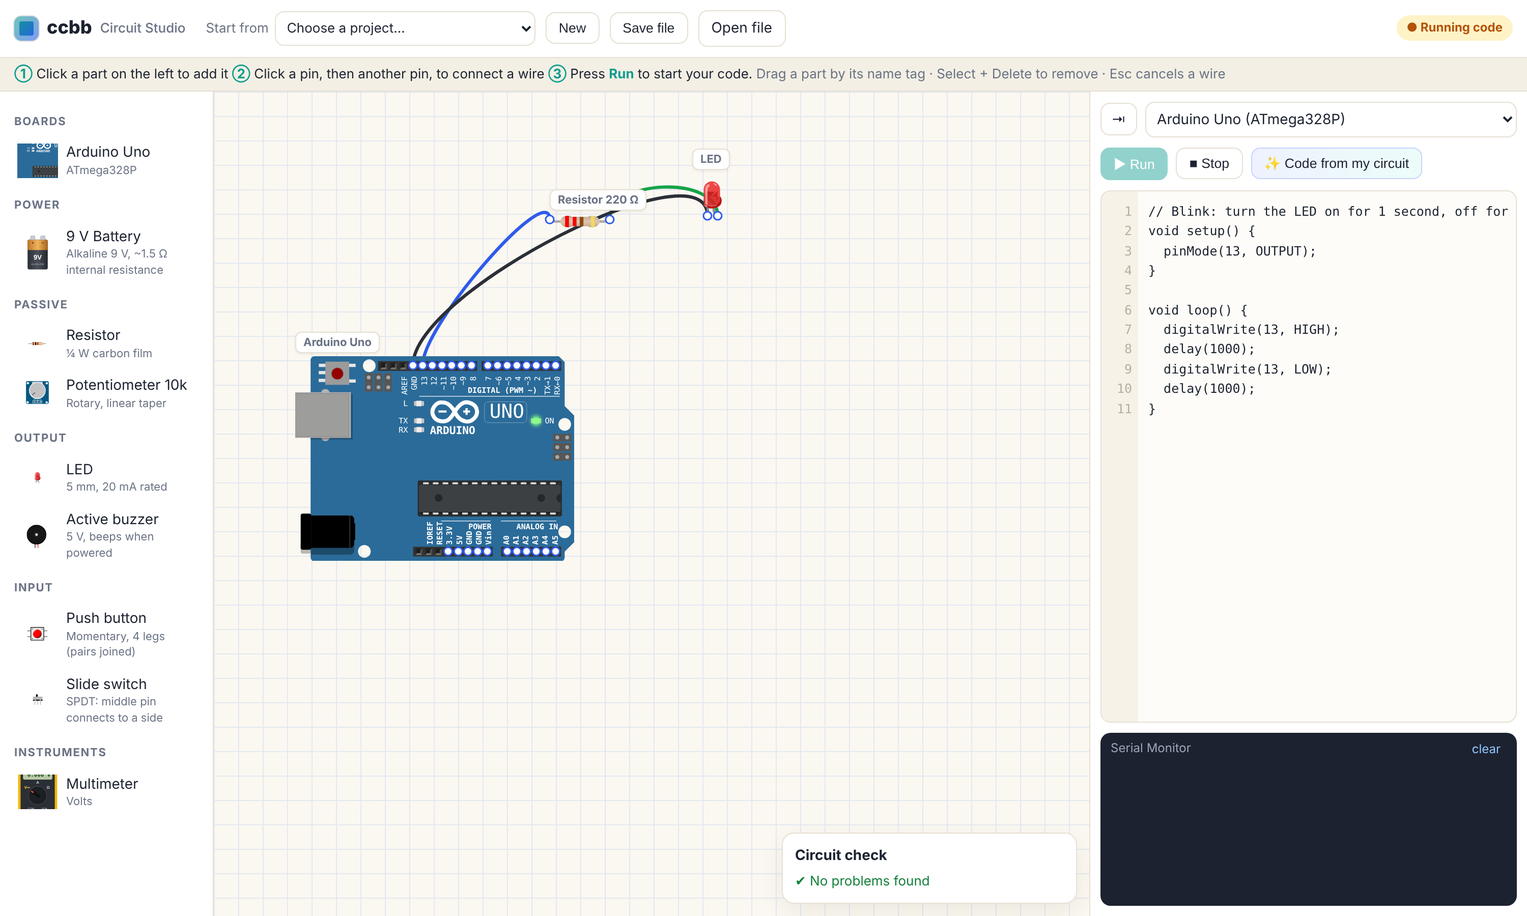
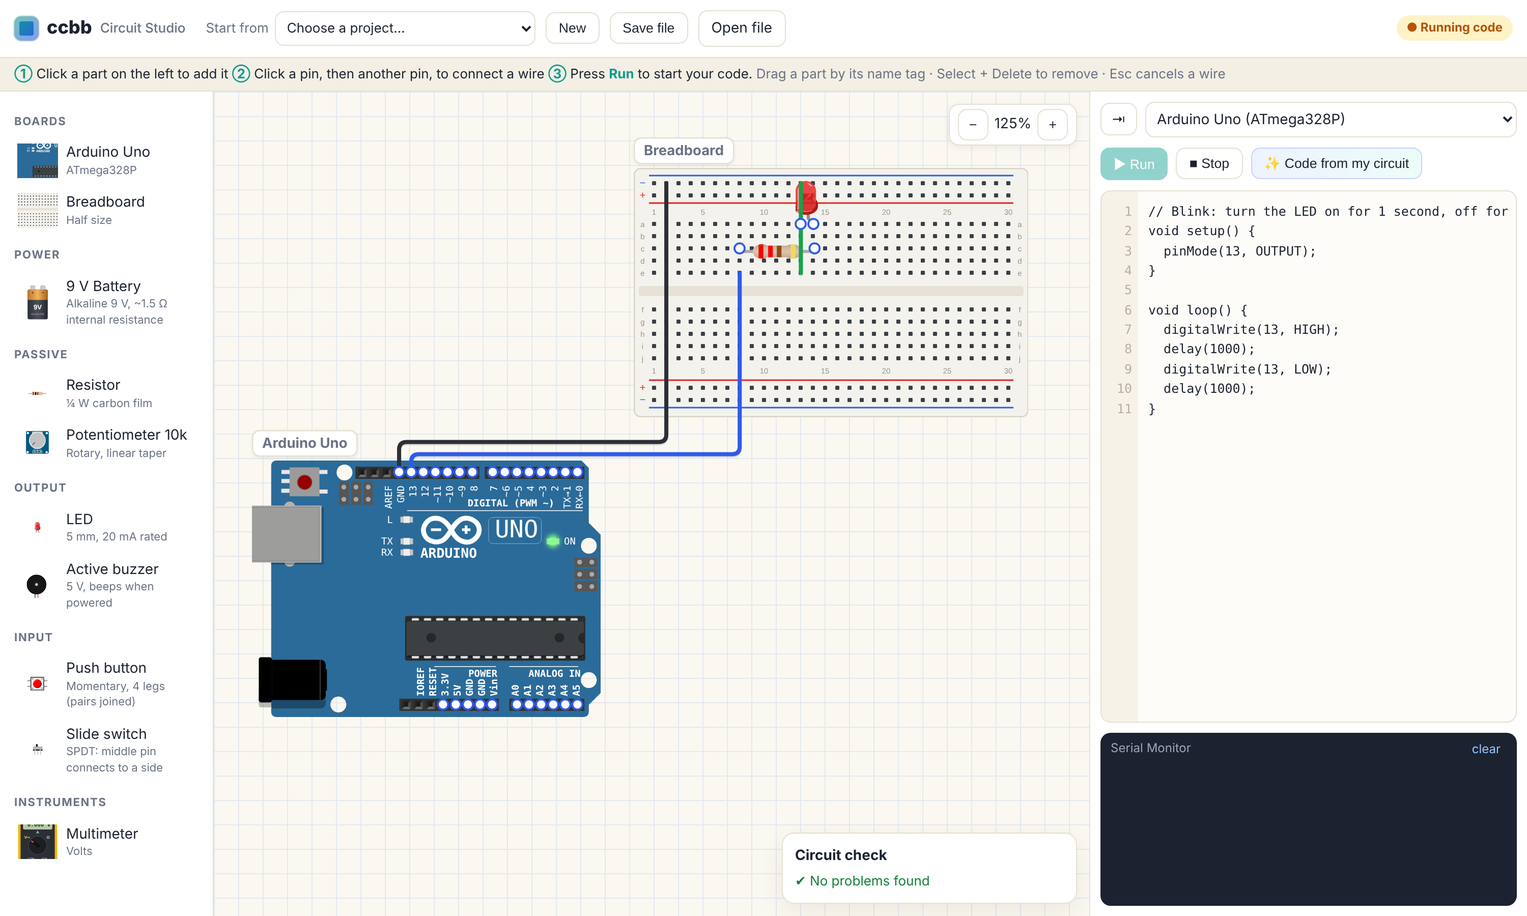
Add breadboard, snap-in parts, neat right-angle wiring, zoom
- Half-size breadboard with real row/column/rail connections
- Parts snap into holes; moving the board carries seated parts
- Wires leave pins straight then bend at right angles, drawn above parts
- Starter projects rebuilt on the breadboard
- Zoom control; tidier panels and name tags
- Tests: 27 unit + 15 end-to-end

Claude-Session: https://claude.ai/code/session_01GCfRSDwTK6ahEZgw49N2wn

diff --git a/app/ui/main.js b/app/ui/main.js
@@ -3,6 +3,7 @@ import { createRunner } from '../engine/arduino.js';
 import { CATALOG, BY_TYPE, PROJECTS } from './catalog.js';
 
 const $ = id => document.getElementById(id);
+let Z = 1.25;
 const S = { parts: [], wires: [], selected: null, pending: null, io: { pins: {} }, sim: null, runner: null, nextId: 1 };
 const els = new Map(); // part id -> {host, el}
 
@@ -56,11 +57,40 @@ function applyProps(p) {
   if (p.type === 'uno') el.ledPower = true;
   host.classList.toggle('burnt', !!p.props.burnt);
 }
+const INSERTABLE = ['resistor', 'led', 'pushbutton', 'pot', 'buzzer', 'switch'];
+function placeHost(p) { const h = els.get(p.id).host; h.style.left = p.x + 'px'; h.style.top = p.y + 'px'; }
+const kids = bbId => S.parts.filter(q => S.wires.some(w => w.hidden && w.from.startsWith(q.id + ':') && w.to.startsWith(bbId + ':')));
+function tryInsert(p) {
+  S.wires = S.wires.filter(w => !(w.hidden && w.from.startsWith(p.id + ':')));
+  if (!INSERTABLE.includes(p.type)) return false;
+  const pins = (PIN_LIST[p.type] || []).map(n => [n, pinPos(p.id + ':' + n)]).filter(x => x[1]);
+  let best = null;
+  for (const bb of S.parts.filter(q => q.type === 'breadboard')) {
+    const holes = els.get(bb.id).el.pinInfo, o = pinPos(bb.id + ':' + holes[0].name); if (!o) continue;
+    const ox = o[0] - holes[0].x, oy = o[1] - holes[0].y;
+    for (const [, [x, y]] of pins) for (const h of holes) { const dx = ox + h.x - x, dy = oy + h.y - y, d = Math.hypot(dx, dy);
+      if (d < 6.5 && (!best || d < best.d)) best = { d, dx, dy, bb, ox, oy, holes }; }
+  }
+  if (!best) return false;
+  p.x += best.dx; p.y += best.dy; placeHost(p);
+  for (const n of PIN_LIST[p.type]) { const xy = pinPos(p.id + ':' + n); if (!xy) continue;
+    const h = best.holes.find(h => Math.hypot(best.ox + h.x - xy[0], best.oy + h.y - xy[1]) < 4.5);
+    if (h) S.wires.push({ from: p.id + ':' + n, to: best.bb.id + ':' + h.name, hidden: true }); }
+  return true;
+}
 function startDrag(e, p) {
   const sx = e.clientX, sy = e.clientY, ox = p.x, oy = p.y; let moved = false;
-  const mv = ev => { const dx = ev.clientX - sx, dy = ev.clientY - sy; if (!moved && Math.hypot(dx, dy) < 3) return; moved = true;
-    p.x = Math.max(0, ox + dx); p.y = Math.max(30, oy + dy); const h = els.get(p.id).host; h.style.left = p.x + 'px'; h.style.top = p.y + 'px'; drawWires(); drawPins(); };
-  const up = () => { removeEventListener('pointermove', mv); removeEventListener('pointerup', up); if (moved) save(); };
+  const riders = p.type === 'breadboard' ? kids(p.id).map(q => [q, q.x, q.y]) : [];
+  const mv = ev => { const dx = (ev.clientX - sx) / Z, dy = (ev.clientY - sy) / Z; if (!moved && Math.hypot(dx, dy) < 3) return; moved = true;
+    p.x = Math.max(0, ox + dx); p.y = Math.max(30, oy + dy); placeHost(p);
+    for (const [q, qx, qy] of riders) { q.x = qx + (p.x - ox); q.y = qy + (p.y - oy); placeHost(q); }
+    drawWires(); drawPins(); };
+  const up = () => { removeEventListener('pointermove', mv); removeEventListener('pointerup', up);
+    if (!moved) return;
+    if (!tryInsert(p)) { const g = 4.8, nx = Math.round(p.x / g) * g, ny = Math.round(p.y / g) * g;
+      for (const [q] of riders) { q.x += nx - p.x; q.y += ny - p.y; placeHost(q); }
+      p.x = nx; p.y = ny; placeHost(p); }
+    changed(); };
   addEventListener('pointermove', mv); addEventListener('pointerup', up);
 }
 function removePart(id) {
@@ -73,31 +103,62 @@ function pinPos(key) {
   const [id, pin] = key.split(/:(.+)/); const r = els.get(id); if (!r) return null;
   const info = (r.el.pinInfo || []).find(q => q.name === pin); if (!info) return null;
   const w = $('world').getBoundingClientRect(), b = r.el.getBoundingClientRect();
-  const sc = r.el.offsetWidth ? b.width / r.el.offsetWidth : 1;
-  return [b.left - w.left + info.x * sc, b.top - w.top + info.y * sc];
+  const sc = r.el.offsetWidth ? b.width / Z / r.el.offsetWidth : 1;
+  return [(b.left - w.left) / Z + info.x * sc, (b.top - w.top) / Z + info.y * sc];
 }
 const isGnd = k => /:(GND[.\d]*|-|COM)$/.test(k), isPwr = k => /:(5V|3\.3V|\+|VCC|VIN)$/.test(k);
 const PALETTE = ['#2f5bea', '#16a34a', '#f59e0b', '#9333ea', '#0891b2', '#db2777'];
 const wireColor = (w, i) => isGnd(w.from) || isGnd(w.to) ? '#2b2f36' : isPwr(w.from) || isPwr(w.to) ? '#dc2626' : PALETTE[i % PALETTE.length];
-function wirePath(a, b) { const dy = Math.max(40, Math.abs(b[0] - a[0]) * .25);
-  const up = (a[1] + b[1]) / 2 > Math.min(a[1], b[1]) ? -1 : 1;
-  return `M${a[0]},${a[1]} C${a[0]},${a[1] + up * dy} ${b[0]},${b[1] + up * dy} ${b[0]},${b[1]}`; }
-
+// Neat routing: leave each pin straight out of its part's edge, then use right-angle turns.
+function exitDir(key, xy) {
+  const [id] = key.split(':'); const p = S.parts.find(q => q.id === id); if (!p || p.type === 'breadboard') return null;
+  const r = els.get(id).el.getBoundingClientRect(), w = $('world').getBoundingClientRect();
+  const top = (r.top - w.top) / Z, h = r.height / Z, left = (r.left - w.left) / Z, wd = r.width / Z;
+  const fy = (xy[1] - top) / h, fx = (xy[0] - left) / wd;
+  if (fy > 0.75) return [0, 1]; if (fy < 0.25) return [0, -1]; return fx < 0.5 ? [-1, 0] : [1, 0];
+}
+function rounded(pts) {
+  pts = pts.filter((q, i) => i === 0 || Math.hypot(q[0] - pts[i - 1][0], q[1] - pts[i - 1][1]) > 0.5);
+  let d = `M${pts[0][0]},${pts[0][1]}`;
+  for (let i = 1; i < pts.length - 1; i++) {
+    const [px, py] = pts[i - 1], [x, y] = pts[i], [nx, ny] = pts[i + 1];
+    const r = Math.min(6, Math.hypot(x - px, y - py) / 2, Math.hypot(nx - x, ny - y) / 2);
+    const ux = Math.sign(x - px), uy = Math.sign(y - py), vx = Math.sign(nx - x), vy = Math.sign(ny - y);
+    d += ` L${x - ux * r},${y - uy * r} Q${x},${y} ${x + vx * r},${y + vy * r}`;
+  }
+  const l = pts.at(-1); return d + ` L${l[0]},${l[1]}`;
+}
+function wirePath(a, b, lane = 0, ka = '', kb = '') {
+  let da = exitDir(ka, a), db = exitDir(kb, b);
+  if (!da && db) { [a, b, da, db] = [b, a, db, da]; }
+  const L = 14 + lane;
+  if (!da) { // hole to hole: one bend
+    if (Math.abs(a[0] - b[0]) < 1 || Math.abs(a[1] - b[1]) < 1) return `M${a[0]},${a[1]} L${b[0]},${b[1]}`;
+    return rounded([a, [a[0], b[1]], b]); }
+  const a1 = [a[0] + da[0] * L, a[1] + da[1] * L];
+  const b1 = db ? [b[0] + db[0] * L, b[1] + db[1] * L] : b;
+  const mid = da[1] !== 0 ? [[b1[0], a1[1]]] : [[a1[0], b1[1]]];
+  return rounded([a, a1, ...mid, b1, b]);
+}
 // ---------------- drawing ----------------
 let flowOffset = 0;
 function drawWires() {
   const svg = $('wires');
-  svg.innerHTML = S.wires.map((w, i) => { const a = pinPos(w.from), b = pinPos(w.to); if (!a || !b) return '';
-    const d = wirePath(a, b), sel = S.selected?.wire === i ? ' sel' : '';
+  let lane = 0;
+  svg.innerHTML = S.wires.map((w, i) => { if (w.hidden) return ''; const a = pinPos(w.from), b = pinPos(w.to); if (!a || !b) return '';
+    const d = wirePath(a, b, (lane++ % 5) * 4.8, w.from, w.to), sel = S.selected?.wire === i ? ' sel' : '';
     return `<path class="wire${sel}" data-i="${i}" d="${d}" stroke="${wireColor(w, i)}"/><path class="flow" data-f="${i}" d="${d}"/>`; }).join('')
     + (S.pending?.mouse ? (() => { const a = pinPos(S.pending.from); return a ? `<path class="ghost" d="M${a[0]},${a[1]} L${S.pending.mouse[0]},${S.pending.mouse[1]}"/>` : ''; })() : '');
 }
+let holesVisible = true;
 function drawPins() {
   let h = '';
   for (const p of S.parts) for (const pin of PIN_LIST[p.type] || []) {
     if (p.type === 'uno' && ['A5.2', 'A4.2', 'AREF', 'IOREF', 'RESET'].includes(pin)) continue;
     const k = p.id + ':' + pin, xy = pinPos(k); if (!xy) continue;
-    h += `<circle class="pin${S.pending?.from === k ? ' armed' : ''}" data-k="${k}" cx="${xy[0]}" cy="${xy[1]}" r="4"/>`;
+    const hole = p.type === 'breadboard';
+    if (hole && !S.pending && !holesVisible) continue;
+    h += `<circle class="pin${hole ? ' hole' : ''}${S.pending?.from === k ? ' armed' : ''}" data-k="${k}" cx="${xy[0]}" cy="${xy[1]}" r="${hole ? 3.6 : 4}"/>`;
   }
   $('pins').innerHTML = h;
 }
@@ -110,7 +171,7 @@ $('pins').addEventListener('click', e => {
 });
 $('wires').addEventListener('click', e => { const i = e.target.dataset?.i; if (i !== undefined) selectThing({ wire: +i }); });
 $('world').addEventListener('pointermove', e => {
-  const w = $('world').getBoundingClientRect(), x = e.clientX - w.left, y = e.clientY - w.top;
+  const w = $('world').getBoundingClientRect(), x = (e.clientX - w.left) / Z, y = (e.clientY - w.top) / Z;
   if (S.pending) { S.pending.mouse = [x, y]; drawWires(); }
   const k = e.target.dataset?.k, wi = e.target.dataset?.i, tip = $('tip');
   if (S.sim && (k || wi !== undefined)) {
@@ -169,7 +230,9 @@ function refreshProps() {
 // ---------------- simulation ----------------
 let queued = false;
 function changed() { save(); if (!queued) { queued = true; requestAnimationFrame(() => { queued = false; runSim(); drawWires(); drawPins(); }); } }
+function markSeated() { for (const p of S.parts) els.get(p.id)?.host.classList.toggle('seated', S.wires.some(w => w.hidden && w.from.startsWith(p.id + ':'))); }
 function runSim() {
+  markSeated();
   S.sim = simulate(S.parts, S.wires, S.io);
   let reburn = false;
   for (const p of S.parts) { const r = S.sim.parts[p.id] || {}, { el } = els.get(p.id);
@@ -264,11 +327,18 @@ $('btnMin').onclick = () => { $('code').classList.toggle('min'); setTimeout(() =
 
 // ---------------- projects, save, load ----------------
 function load(data) {
-  stopCode(); for (const r of els.values()) r.host.remove(); els.clear();
+  S.ready = false; stopCode(); for (const r of els.values()) r.host.remove(); els.clear();
   S.parts = structuredClone(data.parts || []); S.wires = structuredClone(data.wires || []);
   S.nextId = 1 + Math.max(0, ...S.parts.map(p => +(p.id.match(/\d+$/)?.[0] || 0)));
   S.parts.forEach(mountPart); $('src').value = data.code || ''; gutter(); selectThing(null);
-  customElements.whenDefined('wokwi-arduino-uno').then(() => { requestAnimationFrame(() => changed()); setTimeout(() => { drawWires(); drawPins(); }, 250); });
+  Promise.all(['wokwi-arduino-uno', 'wokwi-led', 'wokwi-resistor', 'cb-breadboard'].map(t => customElements.whenDefined(t))).then(() => setTimeout(() => {
+    for (const p of S.parts) if (p.at) {
+      const hole = pinPos(p.at.bb + ':' + p.at.hole), pin = pinPos(p.id + ':' + p.at.pin);
+      if (hole && pin) { p.x += hole[0] - pin[0]; p.y += hole[1] - pin[1]; placeHost(p); tryInsert(p); }
+      delete p.at;
+    }
+    changed(); setTimeout(() => { drawWires(); drawPins(); requestAnimationFrame(() => { S.ready = true; }); }, 200);
+  }, 60));
 }
 $('projects').onchange = e => { if (e.target.value) load(PROJECTS[e.target.value]); e.target.value = ''; };
 $('btnNew').onclick = () => { if (confirm('Start a new empty circuit?')) load({ parts: [], wires: [], code: 'void setup() {\n\n}\n\nvoid loop() {\n\n}\n' }); };
@@ -279,8 +349,10 @@ const snapshot = () => ({ version: 1, parts: S.parts, wires: S.wires, code: $('s
 function save() { try { localStorage.setItem('ccbb.circuit', JSON.stringify(snapshot())); } catch {} }
 addEventListener('resize', () => { drawWires(); drawPins(); });
 
+function setZoom(z) { Z = Math.max(0.6, Math.min(2.2, Math.round(z * 100) / 100)); $('world').style.transform = `scale(${Z})`; $('zoomLbl').textContent = Math.round(Z * 100) + '%'; drawWires(); drawPins(); }
+$('zIn').onclick = () => setZoom(Z + 0.15); $('zOut').onclick = () => setZoom(Z - 0.15); setZoom(Z);
 // expose for tests / power users
-window.ccbb = { S, load, addPart, connect: (from, to) => { S.wires.push({ from, to }); changed(); }, simNow: () => (runSim(), S.sim), pinPos, PROJECTS };
+window.ccbb = { get Z() { return Z; }, setZoom, S, load, addPart, connect: (from, to) => { S.wires.push({ from, to }); changed(); }, simNow: () => (runSim(), S.sim), pinPos, PROJECTS };
 
 let initial = null; try { initial = JSON.parse(localStorage.getItem('ccbb.circuit')); } catch {}
 const q = new URLSearchParams(location.search).get('project');

diff --git a/app/ui/catalog.js b/app/ui/catalog.js
@@ -1,6 +1,7 @@
 // Parts the student can place, and starter projects.
 export const CATALOG = [
   { type: 'uno', tag: 'wokwi-arduino-uno', name: 'Arduino Uno', group: 'Boards', props: {}, desc: 'ATmega328P · 5 V · 14 digital + 6 analog pins' },
+  { type: 'breadboard', tag: 'cb-breadboard', name: 'Breadboard', group: 'Boards', props: {}, desc: 'Half size · 30 columns · rows a–e and f–j joined, + and − rails' },
   { type: 'battery', tag: 'cb-battery', name: '9 V Battery', group: 'Power', props: { volts: 9, rint: 1.5 }, desc: 'Alkaline 9 V, ~1.5 Ω internal resistance' },
   { type: 'resistor', tag: 'wokwi-resistor', name: 'Resistor', group: 'Passive', props: { ohms: 220 }, desc: '¼ W carbon film' },
   { type: 'pot', tag: 'wokwi-potentiometer', name: 'Potentiometer 10k', group: 'Passive', props: { ohms: 10000, pos: 50 }, desc: 'Rotary, linear taper' },
@@ -15,10 +16,11 @@ export const BY_TYPE = Object.fromEntries(CATALOG.map(c => [c.type, c]));
 const W = (from, to) => ({ from, to });
 export const PROJECTS = {
   blink: { name: '1 · Blink an LED', parts: [
-      { id: 'uno1', type: 'uno', x: 80, y: 260, props: {} },
-      { id: 'r1', type: 'resistor', x: 330, y: 120, props: { ohms: 220 } },
-      { id: 'led1', type: 'led', x: 470, y: 80, props: { color: 'red' } }],
-    wires: [W('uno1:13', 'r1:1'), W('r1:2', 'led1:A'), W('led1:C', 'uno1:GND.1')],
+      { id: 'uno1', type: 'uno', x: 30, y: 290, props: {} },
+      { id: "bb1", type: "breadboard", x: 330, y: 60, props: {} },
+      { id: 'r1', type: 'resistor', x: 0, y: 0, props: { ohms: 220 }, at: { bb: 'bb1', pin: '1', hole: 'C8' } },
+      { id: 'led1', type: 'led', x: 0, y: 0, props: { color: 'red' }, at: { bb: 'bb1', pin: 'C', hole: 'A13' } }],
+    wires: [W('uno1:13', 'bb1:E8'), W('bb1:E13', 'bb1:TN13'), W('uno1:GND.1', 'bb1:TN2')],
     code: `// Blink: turn the LED on for 1 second, off for 1 second
 void setup() {
   pinMode(13, OUTPUT);
@@ -31,11 +33,12 @@ void loop() {
   delay(1000);
 }` },
   button: { name: '2 · Button controls LED', parts: [
-      { id: 'uno1', type: 'uno', x: 80, y: 260, props: {} },
-      { id: 'btn1', type: 'pushbutton', x: 470, y: 260, props: { pressed: false } },
-      { id: 'r1', type: 'resistor', x: 330, y: 120, props: { ohms: 220 } },
-      { id: 'led1', type: 'led', x: 470, y: 80, props: { color: 'green' } }],
-    wires: [W('uno1:13', 'r1:1'), W('r1:2', 'led1:A'), W('led1:C', 'uno1:GND.1'), W('btn1:1.l', 'uno1:2'), W('btn1:2.l', 'uno1:GND.3')],
+      { id: 'uno1', type: 'uno', x: 30, y: 290, props: {} },
+      { id: "bb1", type: "breadboard", x: 330, y: 60, props: {} },
+      { id: 'r1', type: 'resistor', x: 0, y: 0, props: { ohms: 220 }, at: { bb: 'bb1', pin: '1', hole: 'C8' } },
+      { id: 'led1', type: 'led', x: 0, y: 0, props: { color: 'green' }, at: { bb: 'bb1', pin: 'C', hole: 'A13' } },
+      { id: 'btn1', type: 'pushbutton', x: 470, y: 400, props: { pressed: false } }],
+    wires: [W('uno1:13', 'bb1:E8'), W('bb1:E13', 'bb1:TN13'), W('uno1:GND.1', 'bb1:TN2'), W('uno1:2', 'btn1:1.l'), W('btn1:2.l', 'uno1:GND.3')],
     code: `// Hold the button to light the LED
 const int BUTTON = 2;
 const int LED = 13;
@@ -53,11 +56,12 @@ void loop() {
   delay(200);
 }` },
   dimmer: { name: '3 · Knob dims an LED (PWM)', parts: [
-      { id: 'uno1', type: 'uno', x: 80, y: 260, props: {} },
-      { id: 'pot1', type: 'pot', x: 480, y: 380, props: { ohms: 10000, pos: 50 } },
-      { id: 'r1', type: 'resistor', x: 330, y: 120, props: { ohms: 220 } },
-      { id: 'led1', type: 'led', x: 470, y: 80, props: { color: 'yellow' } }],
-    wires: [W('uno1:9', 'r1:1'), W('r1:2', 'led1:A'), W('led1:C', 'uno1:GND.1'), W('pot1:VCC', 'uno1:5V'), W('pot1:GND', 'uno1:GND.2'), W('pot1:SIG', 'uno1:A0')],
+      { id: 'uno1', type: 'uno', x: 30, y: 290, props: {} },
+      { id: "bb1", type: "breadboard", x: 330, y: 60, props: {} },
+      { id: 'r1', type: 'resistor', x: 0, y: 0, props: { ohms: 220 }, at: { bb: 'bb1', pin: '1', hole: 'C8' } },
+      { id: 'led1', type: 'led', x: 0, y: 0, props: { color: 'yellow' }, at: { bb: 'bb1', pin: 'C', hole: 'A13' } },
+      { id: 'pot1', type: 'pot', x: 0, y: 0, props: { ohms: 10000, pos: 50 }, at: { bb: 'bb1', pin: 'GND', hole: 'F22' } }],
+    wires: [W('uno1:9', 'bb1:E8'), W('bb1:E13', 'bb1:TN13'), W('uno1:GND.1', 'bb1:TN2'), W('bb1:J22', 'bb1:BN22'), W('bb1:J24', 'bb1:BP24'), W('uno1:5V', 'bb1:BP2'), W('uno1:GND.2', 'bb1:BN2'), W('uno1:A0', 'bb1:J23')],
     code: `// Turn the knob to change LED brightness
 void setup() {
   pinMode(9, OUTPUT);
@@ -85,10 +89,11 @@ void loop() {
     wires: [W('bat1:+', 'led1:A'), W('led1:C', 'bat1:-')],
     code: `// What happens when you connect an LED straight to 9 V?\n// Look at the warnings panel, then fix it with a resistor.` },
   divider: { name: '6 · Voltage divider + multimeter', parts: [
-      { id: 'bat1', type: 'battery', x: 90, y: 160, props: { volts: 9, rint: 1.5 } },
-      { id: 'r1', type: 'resistor', x: 260, y: 110, props: { ohms: 1000 } },
-      { id: 'r2', type: 'resistor', x: 260, y: 230, props: { ohms: 2000 } },
-      { id: 'm1', type: 'meter', x: 470, y: 120, props: { mode: 'V' } }],
-    wires: [W('bat1:+', 'r1:1'), W('r1:2', 'r2:2'), W('r2:1', 'bat1:-'), W('m1:V', 'r1:2'), W('m1:COM', 'bat1:-')],
+      { id: 'bat1', type: 'battery', x: 80, y: 150, props: { volts: 9, rint: 1.5 } },
+      { id: 'bb1', type: 'breadboard', x: 240, y: 110, props: {} },
+      { id: 'r1', type: 'resistor', x: 0, y: 0, props: { ohms: 1000 }, at: { bb: 'bb1', pin: '1', hole: 'C6' } },
+      { id: 'r2', type: 'resistor', x: 0, y: 0, props: { ohms: 2000 }, at: { bb: 'bb1', pin: '1', hole: 'D12' } },
+      { id: 'm1', type: 'meter', x: 600, y: 90, props: { mode: 'V' } }],
+    wires: [W('bat1:+', 'bb1:TP1'), W('bat1:-', 'bb1:TN1'), W('bb1:TP6', 'bb1:A6'), W('bb1:E18', 'bb1:TN18'), W('m1:V', 'bb1:E12'), W('m1:COM', 'bb1:TN24')],
     code: `// Vout = Vin × R2 / (R1 + R2) = 9 × 2k / 3k = 6 V\n// Change R1 or R2 and check the multimeter.` },
 };

diff --git a/app/ui/custom-parts.js b/app/ui/custom-parts.js
@@ -38,3 +38,32 @@ class CbMultimeter extends HTMLElement {
 }
 customElements.define('cb-battery', CbBattery);
 customElements.define('cb-multimeter', CbMultimeter);
+
+// ---------------- Breadboard (half size, 30 columns) ----------------
+// Hole pitch 9.6 px = 2.54 mm at 96 dpi, matching the Wokwi part graphics so legs line up with holes.
+export const BB = { P: 9.6, X0: 16, cols: 30, rows: { TN: 12, TP: 21.6, A: 44, B: 53.6, C: 63.2, D: 72.8, E: 82.4, F: 111.2, G: 120.8, H: 130.4, I: 140, J: 149.6, BP: 172.8, BN: 182.4 }, W: 16 * 2 + 29 * 9.6, H: 196 };
+export function bbHoles() {
+  const out = [];
+  for (const [r, y] of Object.entries(BB.rows)) for (let c = 1; c <= BB.cols; c++) out.push({ name: r + c, x: BB.X0 + (c - 1) * BB.P, y });
+  return out;
+}
+const HOLES = bbHoles();
+class CbBreadboard extends HTMLElement {
+  connectedCallback() {
+    const P = BB.P, R = BB.rows;
+    const hole = h => `<rect x="${h.x - 1.6}" y="${h.y - 1.6}" width="3.2" height="3.2" rx=".6" fill="#3b3f46"/>`;
+    const line = (y, c) => `<line x1="${BB.X0 - 4}" x2="${BB.W - BB.X0 + 4}" y1="${y}" y2="${y}" stroke="${c}" stroke-width="1.2"/>`;
+    const nums = [1, 5, 10, 15, 20, 25, 30].map(c => `<text x="${BB.X0 + (c - 1) * P}" y="${R.A - 7}" text-anchor="middle">${c}</text><text x="${BB.X0 + (c - 1) * P}" y="${R.J + 12}" text-anchor="middle">${c}</text>`).join('');
+    const letters = 'ABCDEFGHIJ'.split('').map(l => `<text x="7" y="${R[l] + 2.5}" text-anchor="middle">${l.toLowerCase()}</text><text x="${BB.W - 7}" y="${R[l] + 2.5}" text-anchor="middle">${l.toLowerCase()}</text>`).join('');
+    this.innerHTML = `<svg width="${BB.W}" height="${BB.H}" viewBox="0 0 ${BB.W} ${BB.H}">
+      <rect x=".5" y=".5" width="${BB.W - 1}" height="${BB.H - 1}" rx="5" fill="#f4f2ec" stroke="#d8d3c6"/>
+      <rect x="4" y="${(R.E + R.F) / 2 - 4}" width="${BB.W - 8}" height="8" rx="2" fill="#e6e2d8"/>
+      ${line(R.TN - 6, '#2563eb')}${line(R.TP + 6, '#dc2626')}${line(R.BP - 6, '#dc2626')}${line(R.BN + 6, '#2563eb')}
+      <g font-family="Arial" font-size="6" fill="#9a958a">${nums}${letters}
+      <text x="7" y="${R.TN + 2.5}" text-anchor="middle" fill="#2563eb" font-size="8">−</text><text x="7" y="${R.TP + 2.5}" text-anchor="middle" fill="#dc2626" font-size="8">+</text>
+      <text x="7" y="${R.BP + 2.5}" text-anchor="middle" fill="#dc2626" font-size="8">+</text><text x="7" y="${R.BN + 2.5}" text-anchor="middle" fill="#2563eb" font-size="8">−</text></g>
+      ${HOLES.map(hole).join('')}</svg>`;
+  }
+  get pinInfo() { return HOLES; }
+}
+customElements.define('cb-breadboard', CbBreadboard);

diff --git a/app/engine/circuit.js b/app/engine/circuit.js
@@ -32,7 +32,14 @@ export const MODELS = {
   meter: { elements: p => p.props.mode === 'A' ? [{ type:'R', a:'V', b:'COM', r:0.1, tag:'shunt' }] : [{ type:'R', a:'V', b:'COM', r:10e6, tag:'input' }] },
 };
 
+const BB_ROWS = ['TN','TP','A','B','C','D','E','F','G','H','I','J','BP','BN'];
+const BB_PINS = BB_ROWS.flatMap(r => Array.from({ length: 30 }, (_, i) => r + (i + 1)));
+const BB_TIES = [];
+for (let c = 1; c <= 30; c++) { for (const grp of ['ABCDE', 'FGHIJ']) for (let i = 0; i < 4; i++) BB_TIES.push([grp[i] + c, grp[i + 1] + c]); }
+for (const r of ['TN', 'TP', 'BP', 'BN']) for (let c = 1; c < 30; c++) BB_TIES.push([r + c, r + (c + 1)]);
+MODELS.breadboard = { ties: BB_TIES, elements: () => [] };
 export const PIN_LIST = {
+  breadboard: BB_PINS,
   uno: ['A5.2','A4.2','AREF','GND.1','13','12','11','10','9','8','7','6','5','4','3','2','1','0','IOREF','RESET','3.3V','5V','GND.2','GND.3','VIN','A0','A1','A2','A3','A4','A5'],
   battery: ['+','-'], resistor: ['1','2'], led: ['A','C'], pushbutton: ['1.l','2.l','1.r','2.r'],
   switch: ['1','2','3'], pot: ['GND','SIG','VCC'], buzzer: ['1','2'], meter: ['COM','V'],

diff --git a/app/ui/style.css b/app/ui/style.css
@@ -48,3 +48,10 @@ textarea{flex:1;border:0;outline:0;resize:none;padding:10px;font:12.5px/1.55 ui-
 .serial pre{margin:0;padding:0 10px 8px;overflow:auto;flex:1;font:12px/1.5 ui-monospace,monospace}
 @media (max-width:900px){.palette{width:150px}.code{width:300px}.steps{display:none}}
 .part>:last-child{display:block}cb-battery,cb-multimeter{display:block;line-height:0}
+.pin.hole{fill:transparent;stroke:transparent}.pin.hole:hover{fill:#f59e0b55;stroke:#d97706;stroke-width:1.2}
+.wire{stroke-linejoin:round;filter:drop-shadow(0 1px 0 #0002)}
+.world{transform-origin:0 0}
+.zoom{position:absolute;right:12px;top:12px;display:flex;gap:6px;align-items:center;background:#fff;border:1px solid var(--line);border-radius:10px;padding:4px 8px;z-index:4;font:600 12px inherit;box-shadow:0 2px 8px #0001}
+.props{top:auto;bottom:12px;left:12px;right:auto}
+.part.seated .tag{opacity:0;transition:opacity .15s}.part.seated:hover .tag,.part.seated.sel .tag{opacity:1;z-index:3}
+svg.wires{pointer-events:none}.wire{pointer-events:stroke}

diff --git a/app/index.html b/app/index.html
@@ -20,11 +20,12 @@
   <aside class="palette" id="palette"></aside>
   <section class="board" id="board">
     <div class="scroll" id="scroll"><div class="world" id="world">
-      <svg class="wires" id="wires"></svg>
       <div id="parts"></div>
+      <svg class="wires" id="wires"></svg>
       <svg class="pins" id="pins"></svg>
     </div></div>
     <div class="tip" id="tip"></div>
+    <div class="zoom"><button class="btn icon" id="zOut" title="Zoom out">−</button><span id="zoomLbl">125%</span><button class="btn icon" id="zIn" title="Zoom in">+</button></div>
     <div class="panel props" id="props" hidden></div>
     <div class="panel warns" id="warns"></div>
   </section>

diff --git a/README.md b/README.md
@@ -4,6 +4,8 @@ Test components before you buy them. Build circuits, simulate, measure and learn
 
 ## Circuit Studio (working app)
 Open `app/index.html` through a local server (`npm start`, then http://localhost:8000/app/).
+- Breadboard: parts snap into holes and connect like a real one (a–e, f–j columns, power rails); moving the board carries its parts
+- Neat wiring: wires leave pins straight and use right-angle bends; grid snapping; zoom
 - Add parts, drag them, click pin → pin to wire
 - Real DC circuit simulation (nodal analysis + LED/diode model): LED current and brightness, burnt LEDs, short circuits, pin overcurrent, resistor overheating
 - Run Arduino Uno code (beginner Arduino C: setup/loop, pinMode, digital/analog read/write, delay, millis, Serial, map...)
@@ -11,7 +13,7 @@ Open `app/index.html` through a local server (`npm start`, then http://localhost
 - Current shown flowing along wires; hover pins for voltage
 - 6 starter projects, autosave, save/open file, "Code from my circuit"
 
-Tests: `npm test` (26 engine/unit tests + 12 browser tests).
+Tests: `npm test` (27 engine/unit tests + 15 browser tests).
 
 ## Earlier prototypes
 - `index.html` + `components.js`: Component Test Lab (32 parts, compare, part finder)
